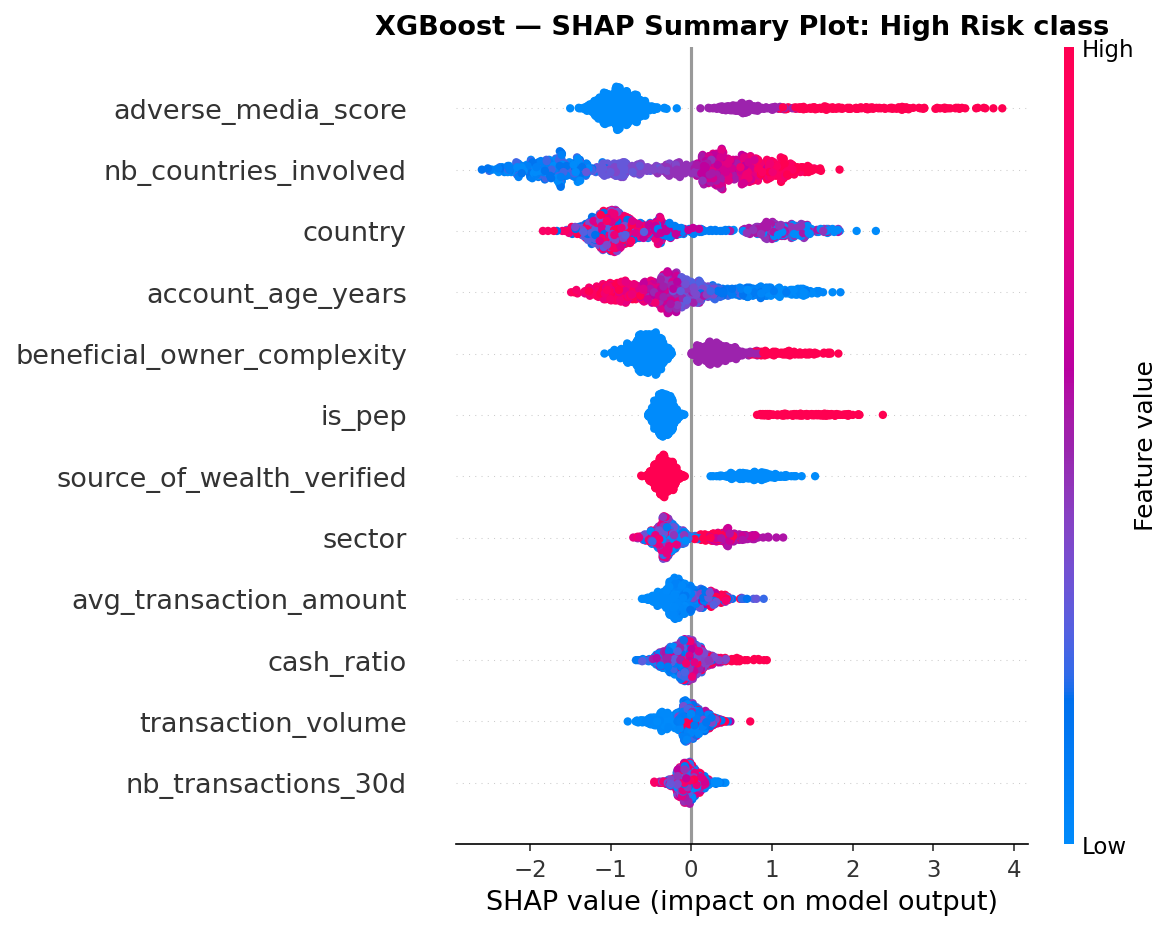
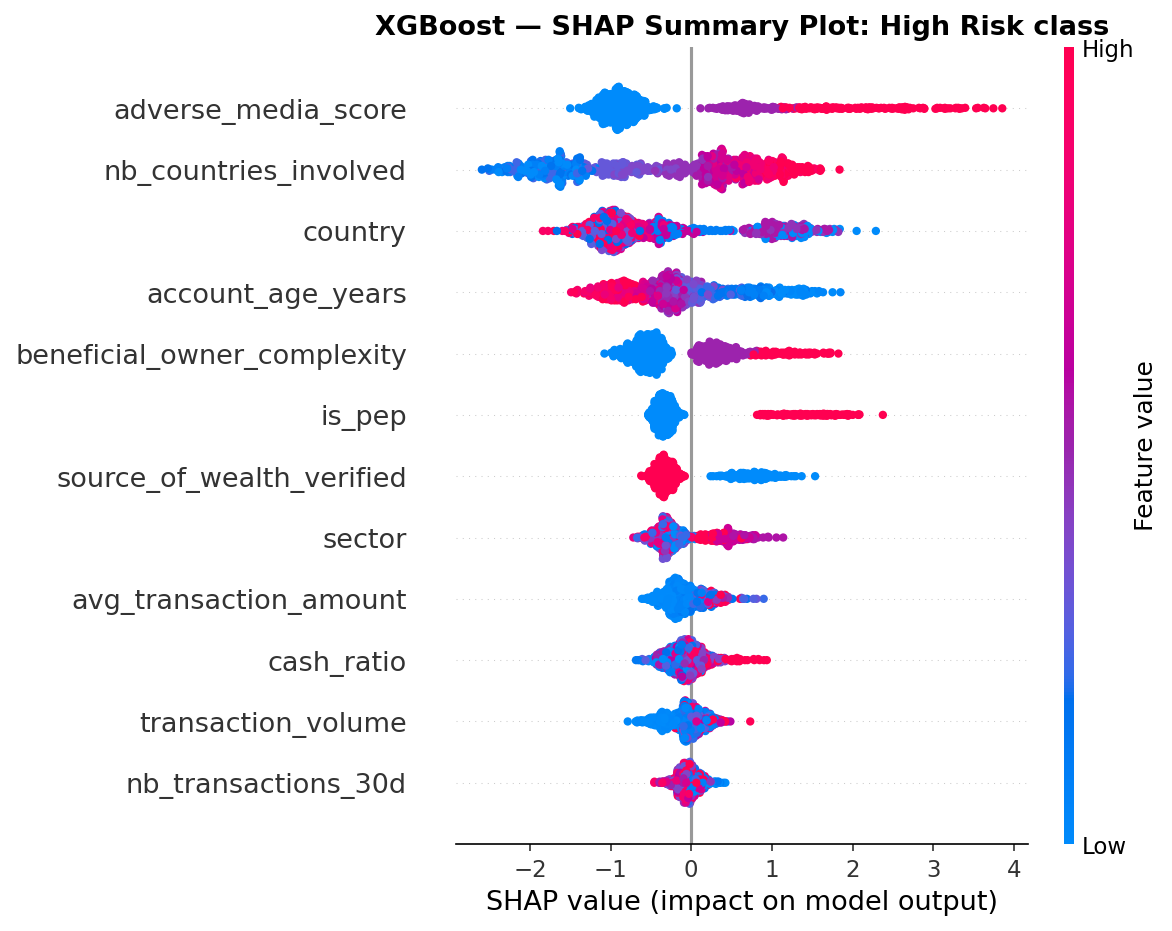
fix: correct RF SHAP summary to beeswarm plot

diff --git a/src/explain.py b/src/explain.py
@@ -39,15 +39,17 @@ print("="*60)
 explainer_rf = shap.TreeExplainer(rf)
 shap_values_rf = explainer_rf.shap_values(X)
 
-# Global summary plot — RF
+# Normalize RF shap values
+shap_rf_high = shap_values_rf[2] if isinstance(shap_values_rf, list) else shap_values_rf[:, :, 2]
+
+# Global beeswarm summary plot — RF (High Risk class)
 plt.figure()
 shap.summary_plot(
-    shap_values_rf,
+    shap_rf_high,
     X,
-    class_names=['Low Risk', 'Medium Risk', 'High Risk'],
     show=False
 )
-plt.title('Random Forest — SHAP Summary Plot (Global)', fontsize=13, fontweight='bold')
+plt.title('Random Forest — SHAP Summary Plot: High Risk class', fontsize=13, fontweight='bold')
 plt.tight_layout()
 plt.savefig('data/figures/shap_rf_summary.png', dpi=150, bbox_inches='tight')
 plt.close()